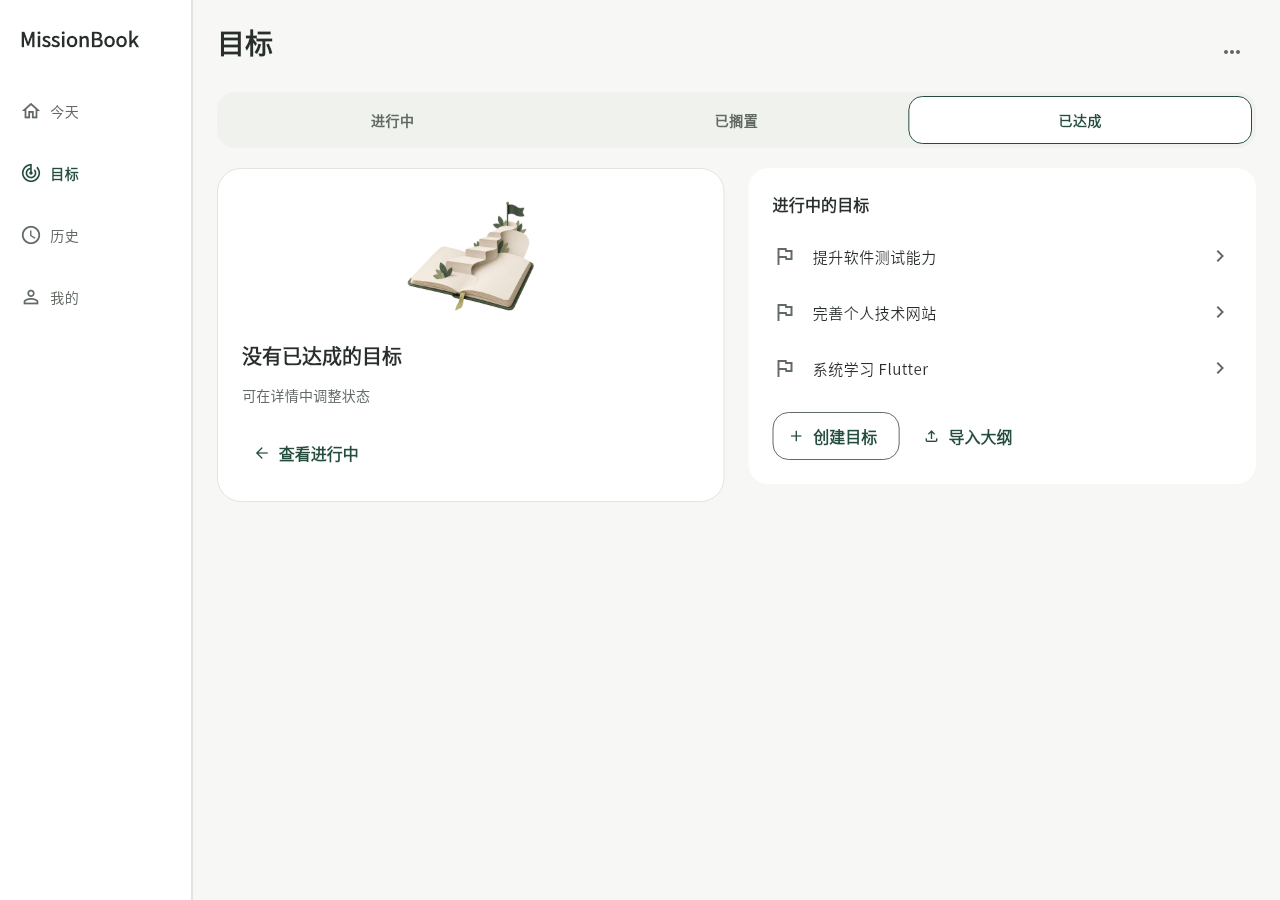
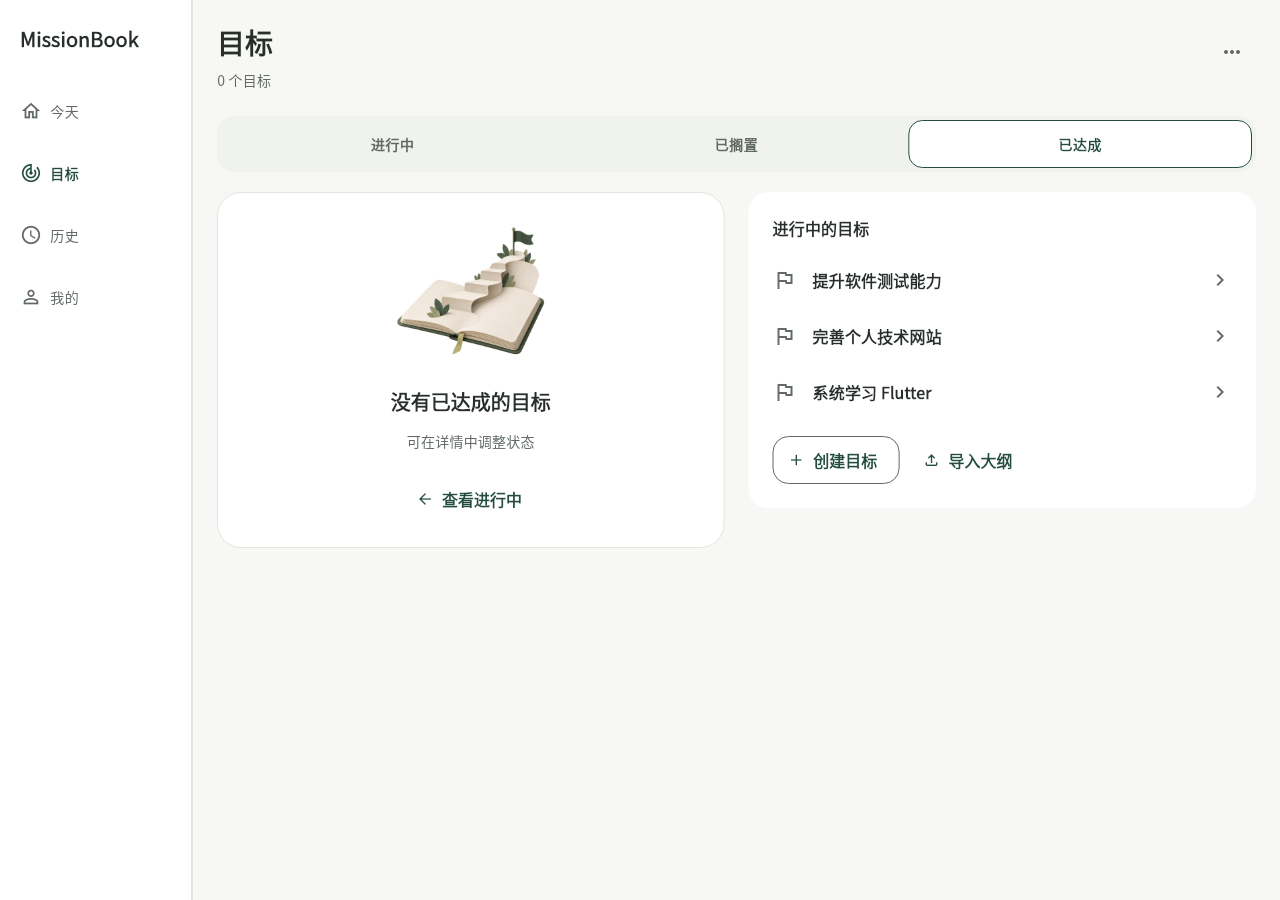
refactor(ui): align goal typography across states

diff --git a/lib/presentation/goals/list/goals_page.dart b/lib/presentation/goals/list/goals_page.dart
@@ -229,17 +229,14 @@ class _GoalsPageState extends State<GoalsPage> with WidgetsBindingObserver {
                   children: [
                     AppPageHeader(
                       title: '目标',
-                      subtitle:
-                          waiting || snapshot.hasError || visible.isNotEmpty
-                          ? Text(
-                              waiting
-                                  ? '读取中…'
-                                  : snapshot.hasError
-                                  ? '读取失败'
-                                  : '${visible.length} 个目标',
-                              style: Theme.of(context).textTheme.bodyMedium,
-                            )
-                          : null,
+                      subtitle: Text(
+                        waiting
+                            ? '读取中…'
+                            : snapshot.hasError
+                            ? '读取失败'
+                            : '${visible.length} 个目标',
+                        style: Theme.of(context).textTheme.bodyMedium,
+                      ),
                       action: Row(
                         mainAxisSize: MainAxisSize.min,
                         children: [
@@ -544,6 +541,7 @@ class _GoalsPageState extends State<GoalsPage> with WidgetsBindingObserver {
                               goal.title,
                               maxLines: 2,
                               overflow: TextOverflow.ellipsis,
+                              style: Theme.of(context).textTheme.titleMedium,
                             ),
                             trailing: const Icon(Icons.chevron_right),
                             onTap: () => _open(goal),
@@ -614,25 +612,25 @@ class _GoalsPageState extends State<GoalsPage> with WidgetsBindingObserver {
             border: Border.all(color: AppColors.hairline),
             borderRadius: BorderRadius.circular(24),
           ),
-          child: LayoutBuilder(
-            builder: (context, box) {
-              // 面板自身宽度与字号共同决定排法；窄屏/大字体仍能完整读完和操作。
-              final horizontal =
-                  box.maxWidth >= 600 &&
-                  MediaQuery.textScalerOf(context).scale(16) <= 20;
+          child: Builder(
+            builder: (context) {
               final illustration = AppIllustration(
                 asset: 'assets/illustrations/goal-path.png',
                 key: ValueKey(
                   'goal-empty-illustration-${_selectedStatus.name}',
                 ),
-                width: horizontal ? 224 : 192,
-                height: horizontal ? 168 : 128,
+                width: 224,
+                height: 150,
               );
               final copy = Column(
                 mainAxisSize: MainAxisSize.min,
-                crossAxisAlignment: CrossAxisAlignment.start,
+                crossAxisAlignment: CrossAxisAlignment.center,
                 children: [
-                  Text(title, style: theme.textTheme.titleLarge),
+                  Text(
+                    title,
+                    style: theme.textTheme.titleLarge,
+                    textAlign: TextAlign.center,
+                  ),
                   const SizedBox(height: 16),
                   if (active)
                     const _GoalJourneyHint()
@@ -642,12 +640,14 @@ class _GoalsPageState extends State<GoalsPage> with WidgetsBindingObserver {
                           ? '可在详情中恢复'
                           : '可在详情中调整状态',
                       style: theme.textTheme.bodyMedium,
+                      textAlign: TextAlign.center,
                     ),
                   const SizedBox(height: 24),
                   if (active) ...[
                     Wrap(
                       spacing: 12,
                       runSpacing: 8,
+                      alignment: WrapAlignment.center,
                       crossAxisAlignment: WrapCrossAlignment.center,
                       children: [
                         FilledButton.icon(
@@ -673,23 +673,14 @@ class _GoalsPageState extends State<GoalsPage> with WidgetsBindingObserver {
                     ),
                 ],
               );
-              if (horizontal) {
-                return Row(
-                  children: [
-                    Expanded(child: copy),
-                    const SizedBox(width: 32),
-                    illustration,
-                  ],
-                );
-              }
-              return Column(
-                mainAxisSize: MainAxisSize.min,
-                crossAxisAlignment: CrossAxisAlignment.start,
-                children: [
-                  Align(alignment: Alignment.center, child: illustration),
-                  const SizedBox(height: 20),
-                  copy,
-                ],
+              return Center(
+                child: ConstrainedBox(
+                  constraints: const BoxConstraints(maxWidth: 420),
+                  child: Column(
+                    mainAxisSize: MainAxisSize.min,
+                    children: [illustration, const SizedBox(height: 20), copy],
+                  ),
+                ),
               );
             },
           ),
@@ -854,7 +845,7 @@ class _GoalCard extends StatelessWidget {
                             const SizedBox(height: 4),
                             Text(
                               goalStatusLabel(goal.status),
-                              style: theme.textTheme.bodySmall,
+                              style: theme.textTheme.bodyMedium,
                             ),
                           ],
                         ),

diff --git a/test/presentation/goals_page_test.dart b/test/presentation/goals_page_test.dart
@@ -172,11 +172,40 @@ void main() {
     expect(find.text('从一个目标开始'), findsOneWidget);
   });
 
+  testWidgets('目标分类切换保持标题角色、居中和分类栏位置', (tester) async {
+    await open(tester);
+    final filter = find.byKey(const Key('goal-filter-active'));
+    final top = tester.getTopLeft(filter).dy;
+    for (final (status, title) in [
+      ('active', '从一个目标开始'),
+      ('paused', '没有已搁置的目标'),
+      ('achieved', '没有已达成的目标'),
+    ]) {
+      await tap(tester, 'goal-filter-$status');
+      final heading = tester.widget<Text>(find.text(title));
+      expect(
+        heading.style,
+        Theme.of(tester.element(find.text(title))).textTheme.titleLarge,
+      );
+      expect(heading.textAlign, TextAlign.center);
+      expect(tester.getTopLeft(filter).dy, top);
+      expect(find.text('0 个目标'), findsOneWidget);
+    }
+  });
+
   testWidgets('分类空态可直接导入或创建目标', (tester) async {
     await open(tester);
     await tap(tester, 'goal-filter-paused');
     await tap(tester, 'goal-empty-import');
-    expect(find.byKey(const Key('goal-import-input')), findsOneWidget);
+    final input = tester.widget<TextField>(
+      find.byKey(const Key('goal-import-input')),
+    );
+    expect(
+      input.style,
+      Theme.of(
+        tester.element(find.byKey(const Key('goal-import-input'))),
+      ).textTheme.bodyLarge,
+    );
     await tester.tap(find.text('收起导入区'));
     await tester.pumpAndSettle();
     expect(find.byKey(const Key('goal-import-input')), findsNothing);

diff --git a/lib/presentation/goals/form/goal_import_section.dart b/lib/presentation/goals/form/goal_import_section.dart
@@ -182,7 +182,7 @@ class GoalImportSectionState extends State<GoalImportSection> {
             readOnly: _saving || _unknown || _saved,
             minLines: 4,
             maxLines: 8,
-            style: theme.textTheme.bodyMedium,
+            style: theme.textTheme.bodyLarge,
             decoration: InputDecoration(
               hintText: '粘贴目标大纲 JSON',
               filled: true,
@@ -236,12 +236,7 @@ class GoalImportSectionState extends State<GoalImportSection> {
             const SizedBox(height: 20),
             const Divider(height: 1),
             const SizedBox(height: 16),
-            Text(
-              preview.title,
-              style: theme.textTheme.bodyLarge?.copyWith(
-                fontWeight: FontWeight.w600,
-              ),
-            ),
+            Text(preview.title, style: theme.textTheme.titleMedium),
             if (preview.description != null)
               Text(preview.description!, style: theme.textTheme.bodyMedium),
             if (preview.why != null)
@@ -285,7 +280,10 @@ class GoalImportSectionState extends State<GoalImportSection> {
           ).textTheme.bodyMedium?.copyWith(color: AppColors.textPrimary),
         ),
         if (node.description != null)
-          Text(node.description!, style: Theme.of(context).textTheme.bodySmall),
+          Text(
+            node.description!,
+            style: Theme.of(context).textTheme.bodyMedium,
+          ),
         for (final child in node.children) _node(context, child, depth + 1),
       ],
     ),

diff --git a/lib/presentation/goals/outline/goal_outline_section.dart b/lib/presentation/goals/outline/goal_outline_section.dart
@@ -308,9 +308,9 @@ class GoalOutlineSectionState extends State<GoalOutlineSection>
                       textAlign: TextAlign.center,
                     ),
                     const SizedBox(height: 6),
-                    const Text(
+                    Text(
                       '先添加一个节点，需要时再细分。',
-                      style: TextStyle(color: AppColors.textSecondary),
+                      style: theme.textTheme.bodyMedium,
                       textAlign: TextAlign.center,
                     ),
                   ],
@@ -593,7 +593,7 @@ class GoalOutlineSectionState extends State<GoalOutlineSection>
                         padding: const EdgeInsets.only(left: 40),
                         child: Text(
                           annotation,
-                          style: Theme.of(context).textTheme.bodySmall,
+                          style: Theme.of(context).textTheme.bodyMedium,
                         ),
                       ),
                   ],

diff --git a/docs/ui设计手册/制作记录/2026-10-27-目标状态空态统一.md b/docs/ui设计手册/制作记录/2026-10-27-目标状态空态统一.md
@@ -5,3 +5,9 @@
 宽屏将空态与真实目标或创建、导入操作并排；窄屏及大字体按实际空间纵向排列。空状态可返回进行中，真实目标可打开详情，创建和导入继续使用原有业务流程。导入草稿在状态切换及窗口缩放时保留。动效遵循系统减少动态效果设置。
 
 复核截图来自隔离内存数据库的 Flutter 测试渲染，非用户数据：[搁置空态](../../教学/assets/ui-review-20261027/goals-empty-paused-no-active-1280.png)、[达成空态与真实进行中目标](../../教学/assets/ui-review-20261027/goals-empty-achieved-1280.png)。设备触控、屏幕阅读器和 Windows 实际窗口仍需实机验收。
+
+## 文字层级与对齐
+
+根据用户补充，目标页各分类沿用同一字号角色：页标题28/36，空态标题20/28，卡片/目标名称16/24，状态与说明14/20，主要操作16/24，分类选项14/20，输入15/22。空态插画、标题、说明和操作以卡片中心对齐；目标名称、说明、路径节点和输入内容按阅读顺序左对齐，分类标签在各自选项内居中。目标数量在空列表和有记录时都占相同位置，避免切换状态时分类栏跳动。导入输入与提示使用同一文字角色，预览目标名称与列表名称一致；节点说明和目标状态使用正文角色，而不是短标识字号。
+
+[进行中空态](../../教学/assets/ui-review-20261027/goals-empty-1280.png)、[搁置空态](../../教学/assets/ui-review-20261027/goals-empty-paused-no-active-1280.png)、[达成空态](../../教学/assets/ui-review-20261027/goals-empty-achieved-1280.png)均为 Flutter 测试渲染，真实设备验收待用户操作。

diff --git a/docs/教学/学习进度.md b/docs/教学/学习进度.md
@@ -704,3 +704,6 @@ flowchart LR
 - 手机和平板窄窗改为纵向排列，宽屏按内容空间分栏；文字放大时推迟分栏。插画切换时有限入场，并遵循系统减少动态效果设置。目标状态和保存规则没有改变；导入草稿在状态切换和窗口缩放时继续保留。
 - 本轮属于助手代为实现；测试和截图不代表用户已掌握或 Android/Windows 实机验收。
 - 验证：静态分析无问题；全量 433 项测试通过，随后新增分类空态创建/导入入口回归，目标页专项 8 项通过。截图复核见[搁置空态](assets/ui-review-20261027/goals-empty-paused-no-active-1280.png)与[达成空态](assets/ui-review-20261027/goals-empty-achieved-1280.png)。
+
+- 用户补充文字与对齐要求后，目标状态空态统一居中；列表、路径和表单按阅读方向左对齐；标题、目标名、正文状态、输入与操作复用项目字号角色。数量说明在空态和有数据时均保留，分类栏不因状态改变跳位。静态截图不能替代用户设备验收。
+- 字体与对齐补充后的验证：`flutter analyze --no-pub`无问题，目标页、节点及导入专项33项通过；最终全量435项通过，包含各空态标题样式、居中和分类栏位置一致的回归。截图为内存数据库渲染，未替代平板或 Windows 实机验收。

diff --git a/docs/ui设计手册/颜色与布局规范.md b/docs/ui设计手册/颜色与布局规范.md
@@ -171,3 +171,7 @@
 ### 2026-10-26 图形与动效优先
 
 采用少文本、语义图片/图形和动效引导的设计哲学：能被图形清楚表达的关系不再堆解释段落；保留任务名称、真实数值、操作名称及必要错误。空态图像首次可见420ms入场，目标→行动→记录640ms顺序显现，目录高度260ms变化、节点箭头180ms旋转，分类180ms反馈；系统减少动态效果时直接显示最终状态。不以循环装饰占用注意力，不从图形流程推断执行事实。
+
+### 2026-10-27：目标页各状态文字与对齐
+
+目标页沿用同一套 AppTypography 角色：页标题28/36、空态标题20/28、区块和目标名称16/24、状态及说明14/20、页面操作16/24、分类选项14/20、输入15/22；同角色不随目标状态变化。空态中的插画、标题、说明及操作居中，列表条目和表单左对齐，分类选项内部居中。目标数的位置在空态与有数据时一致，避免分类栏跳动。目标列表、空态辅助列表和导入预览的目标名统一使用16/24；目标状态和节点说明不使用12号短标识角色。
